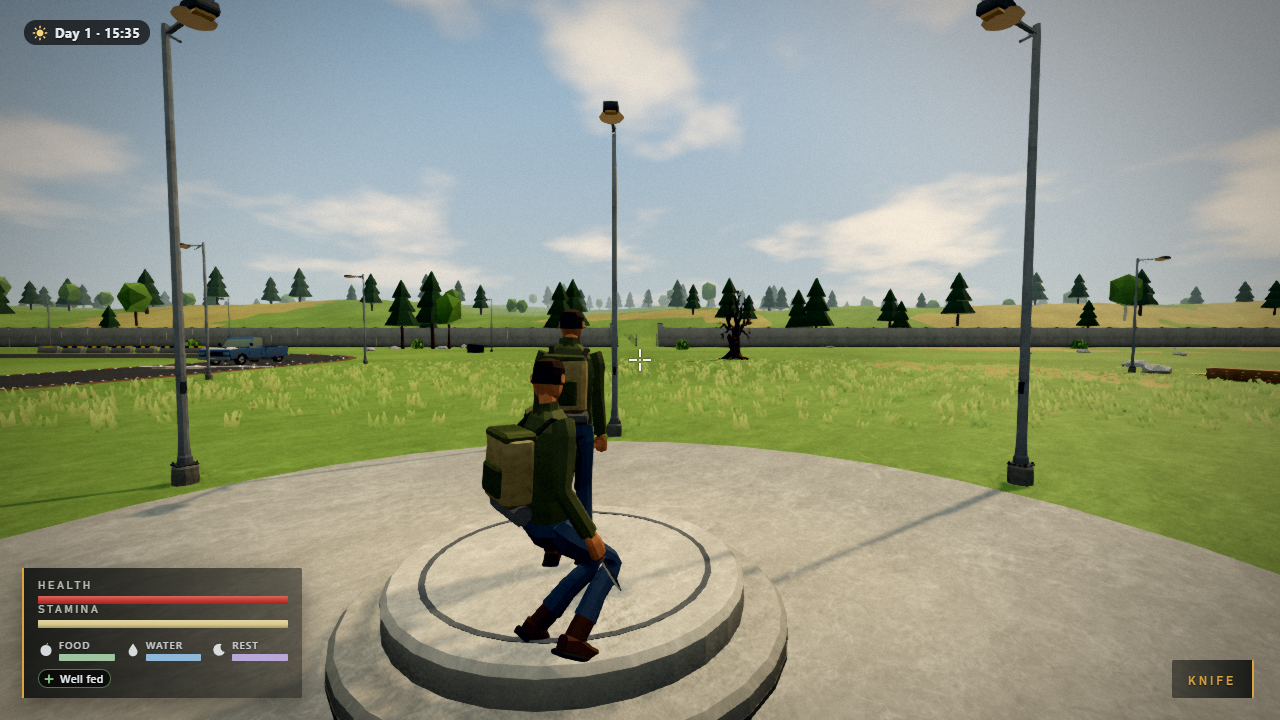
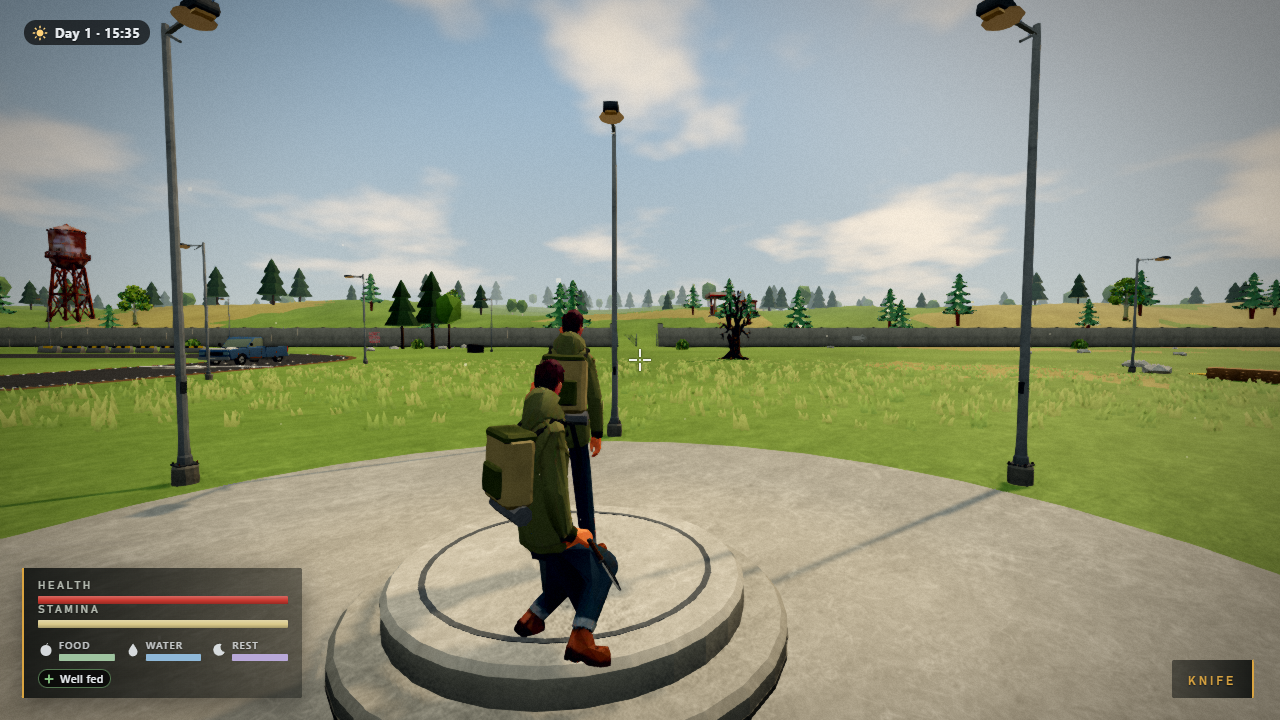
Death screen restyle; refreshed after screenshots and contact sheet; GPU timing in the log

diff --git a/src/ui/hud/hud.ts b/src/ui/hud/hud.ts
@@ -65,6 +65,9 @@ const CSS = `
 .hud .toasts div{background:#0a0d0ccc;border-left:2px solid var(--accent);border-radius:2px;font-family:var(--display);letter-spacing:.06em}
 .hud .range{border-radius:2px;border-left:2px solid var(--accent)}
 .hud .vig{background:radial-gradient(ellipse at center,#0000 50%,#8a0000 135%)}
+.hud div.dead{font:700 clamp(54px,8vw,104px)/1 var(--display);letter-spacing:.32em;text-indent:.32em;color:#c93a2e;text-shadow:0 0 40px #000c,0 4px 0 #000a;
+ background:radial-gradient(ellipse at center,#1a050599 0%,#000000bb 100%);backdrop-filter:grayscale(.9);animation:hud-died 1.6s ease-out both}
+@keyframes hud-died{from{opacity:0;letter-spacing:.8em}to{opacity:1;letter-spacing:.32em}}
 .hud-help{position:fixed;inset:0;font:600 13px/1.3 system-ui,sans-serif;color:#e8ecef;text-shadow:0 1px 2px #000a;display:none;place-items:center;background:#000a;pointer-events:none}
 .hud-help>div{display:grid;grid-template-columns:repeat(3,minmax(180px,1fr));gap:18px 34px;background:#111c;padding:22px 28px;border-radius:10px;max-width:min(860px,94vw)}
 .hud-help h3{margin:0 0 6px;font-size:13px;letter-spacing:1px;text-transform:uppercase;opacity:.8}

diff --git a/docs/progress/2026-11-13-overnight.md b/docs/progress/2026-11-13-overnight.md
@@ -19,10 +19,11 @@ Screenshots: `docs/audit/screenshots/before/` and `.../after/` (contact sheets `
 13. **Flashlight (L)** (`engine/flashlight.ts`): warm spotlight along the view, always present so no shader recompiles; dimmer by day. The item existed but did nothing before.
 14. **AI hill trees** (`aiTrees.ts`): pines and birches within 150 m of the walls are instanced AI models (1.4-1.6k tris) instead of cone trees; farther ones stay in the cheap kit. An autumn variant is shipped but unused (it decimates to a dark blob).
 15. **Loading screen key art** (z-image-turbo): the survivor facing the wall and the horde on the hill; boot screen now prefetches the AI models with real progress and loads them in parallel.
-16. **Audio:** stable-audio3-sfx made melee swings (the game had no file for them), flesh impacts, a headshot crack and a body fall, mixed into the existing hit sounds. ACE-Step made an explore and a combat score, loop-crossfaded; they are opt-in with `?music=ai` because I could not listen to them. **Please listen and decide.**
-17. **New characters, rigged and animated (the biggest change):** the player survivor and eight new zombie variants (civilian, hazmat, soldier, nurse, worker, police, hoodie, suit) are AI-generated and skinned to the game's *existing* rig: z-image-turbo A-pose picture, Hunyuan3D-2.1 textured mesh, then `tools/audit/retarget_char.py` in Blender (fit to the rig, skin weights copied from the original mesh by nearest surface, LOD0/1/2, collision box). The survivor keeps all 40 clips and the backpack node; zombies borrow the shambler clips and render through the GPU crowd renderer with their own baked textures (crowd and model loaders now keep a mesh's own texture). Spawn mix favours the new zombies. 30 zombies still hold 60 fps.
-18. **Inventory:** display type, amber edge, soft entrance, hover feedback.
-19. **HUD** (`src/ui/hud/hud.ts`): same type and accent as the menus, glass backing for bars and ammo, bevelled bars.
+16. **Death screen:** display type, slow letter-spacing fade-in, desaturated veil.
+17. **Audio:** stable-audio3-sfx made melee swings (the game had no file for them), flesh impacts, a headshot crack and a body fall, mixed into the existing hit sounds. ACE-Step made an explore and a combat score, loop-crossfaded; they are opt-in with `?music=ai` because I could not listen to them. **Please listen and decide.**
+18. **New characters, rigged and animated (the biggest change):** the player survivor and eight new zombie variants (civilian, hazmat, soldier, nurse, worker, police, hoodie, suit) are AI-generated and skinned to the game's *existing* rig: z-image-turbo A-pose picture, Hunyuan3D-2.1 textured mesh, then `tools/audit/retarget_char.py` in Blender (fit to the rig, skin weights copied from the original mesh by nearest surface, LOD0/1/2, collision box). The survivor keeps all 40 clips and the backpack node; zombies borrow the shambler clips and render through the GPU crowd renderer with their own baked textures (crowd and model loaders now keep a mesh's own texture). Spawn mix favours the new zombies. 30 zombies still hold 60 fps.
+19. **Inventory:** display type, amber edge, soft entrance, hover feedback.
+20. **HUD** (`src/ui/hud/hud.ts`): same type and accent as the menus, glass backing for bars and ammo, bevelled bars.
 
 ## Incident
 Removing my temporary comparison worktree (it linked `node_modules` by junction) deleted part of the real `node_modules` (`.bin` was gone). Restored with `npm ci` from the lockfile; tests and build pass. Nothing in the repo was affected.
@@ -48,7 +49,7 @@ All under the 1.5M triangle and 400 draw-call budgets. Raw: `docs/audit/perf-bef
 
 ## Cost of all this
 - Download size grew by about 30 MB of public assets (props and buildings 12 MB, characters 11 MB, textures 4.7 MB, audio 2.2 MB). Not yet meshopt/KTX2 compressed; do that before shipping (`gltf-transform optimize`).
-- Triangles in view went from about 240k to 600-750k; draw calls from about 70 to 110-130; GPU cost of bloom + AO + grade about 0.16 ms on the 4090 (about 10x that on a 3050 Ti laptop is the guess; measure there).
+- Triangles in view went from about 240k to 600-750k; draw calls from about 70 to 110-130; GPU time per frame with everything (trees, buildings, AO, bloom) is 1.46 ms vs 1.30 ms with the look chain off, on the 4090 (gpums.mjs); the chain itself is about 0.16 ms on the 4090 (about 10x that on a 3050 Ti laptop is the guess; measure there).
 
 ## What's left, ranked
 1. **Characters (first pass done)**: still to do: fix the AI meshes' proportions (big heads), clothing variants for the survivor, first-person arms, worker/shambler replacements, and hit-zone tuning (headshot zone matches the old mesh). Original note: characters looked plain (finding: the shipped GLBs are meshopt-compressed, Blender 4.5 cannot import them; rebuild from `assets/source/zmb/*/build.py` or decompress with `gltf-transform` first. A try at AI body meshes weight-painted to the existing rig with Blender auto-weights is the next experiment) (about 1.9k-triangle flat-colour bodies). Animation is already good. Needs a rigging path: install UniRig (multi-hour Windows CUDA build) or retarget AI meshes with Blender's auto-weights onto the existing rig, then texture. Highest impact left.
